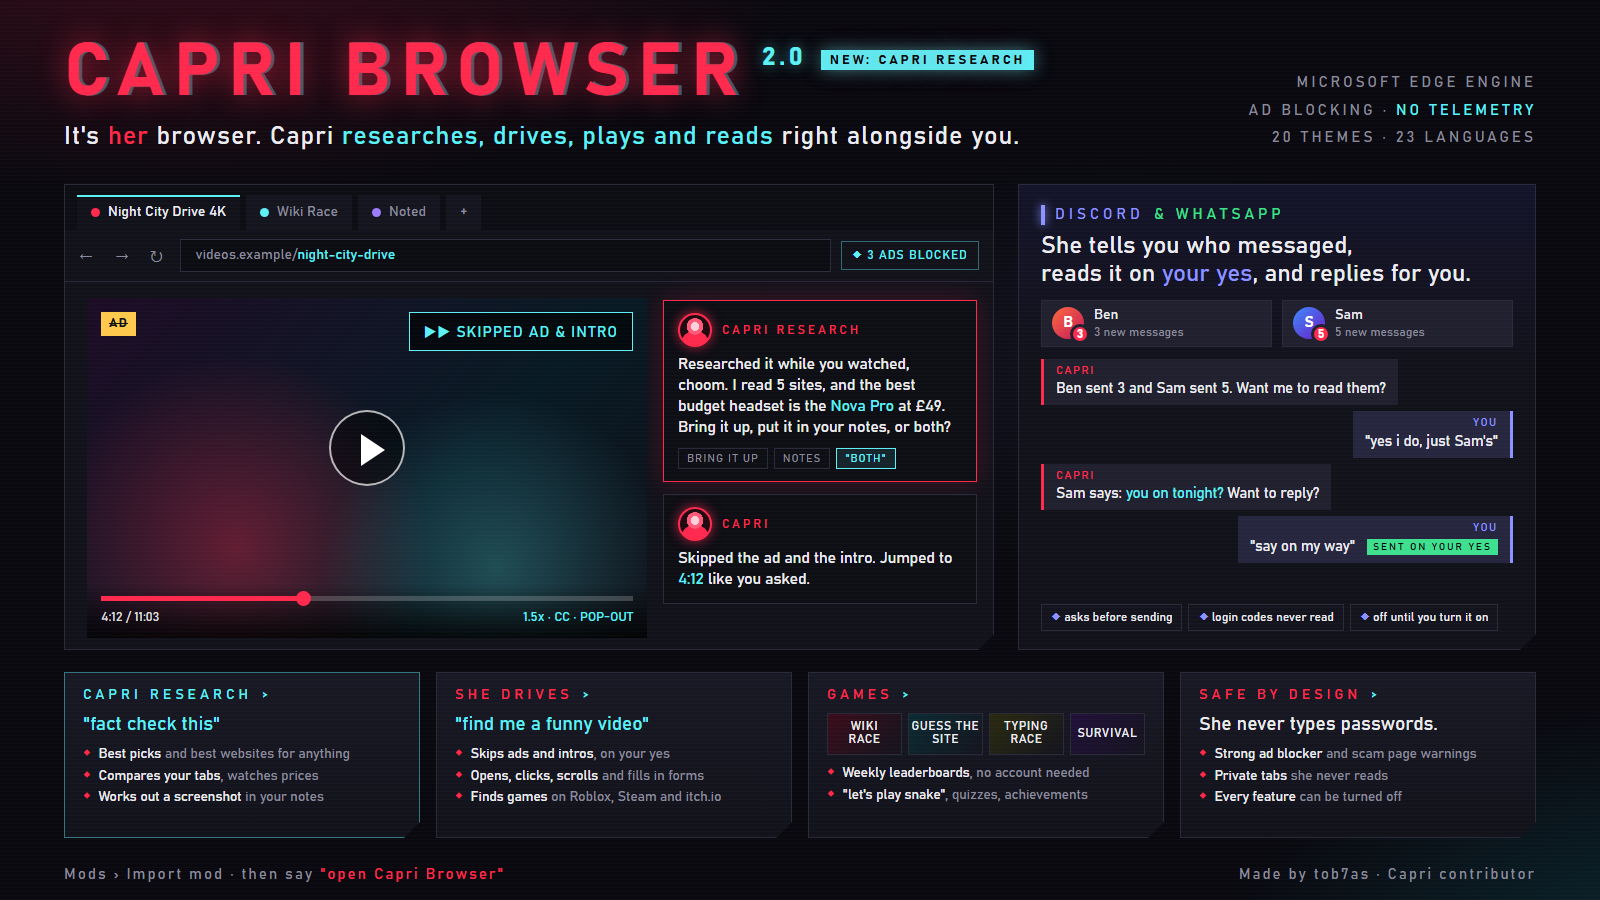
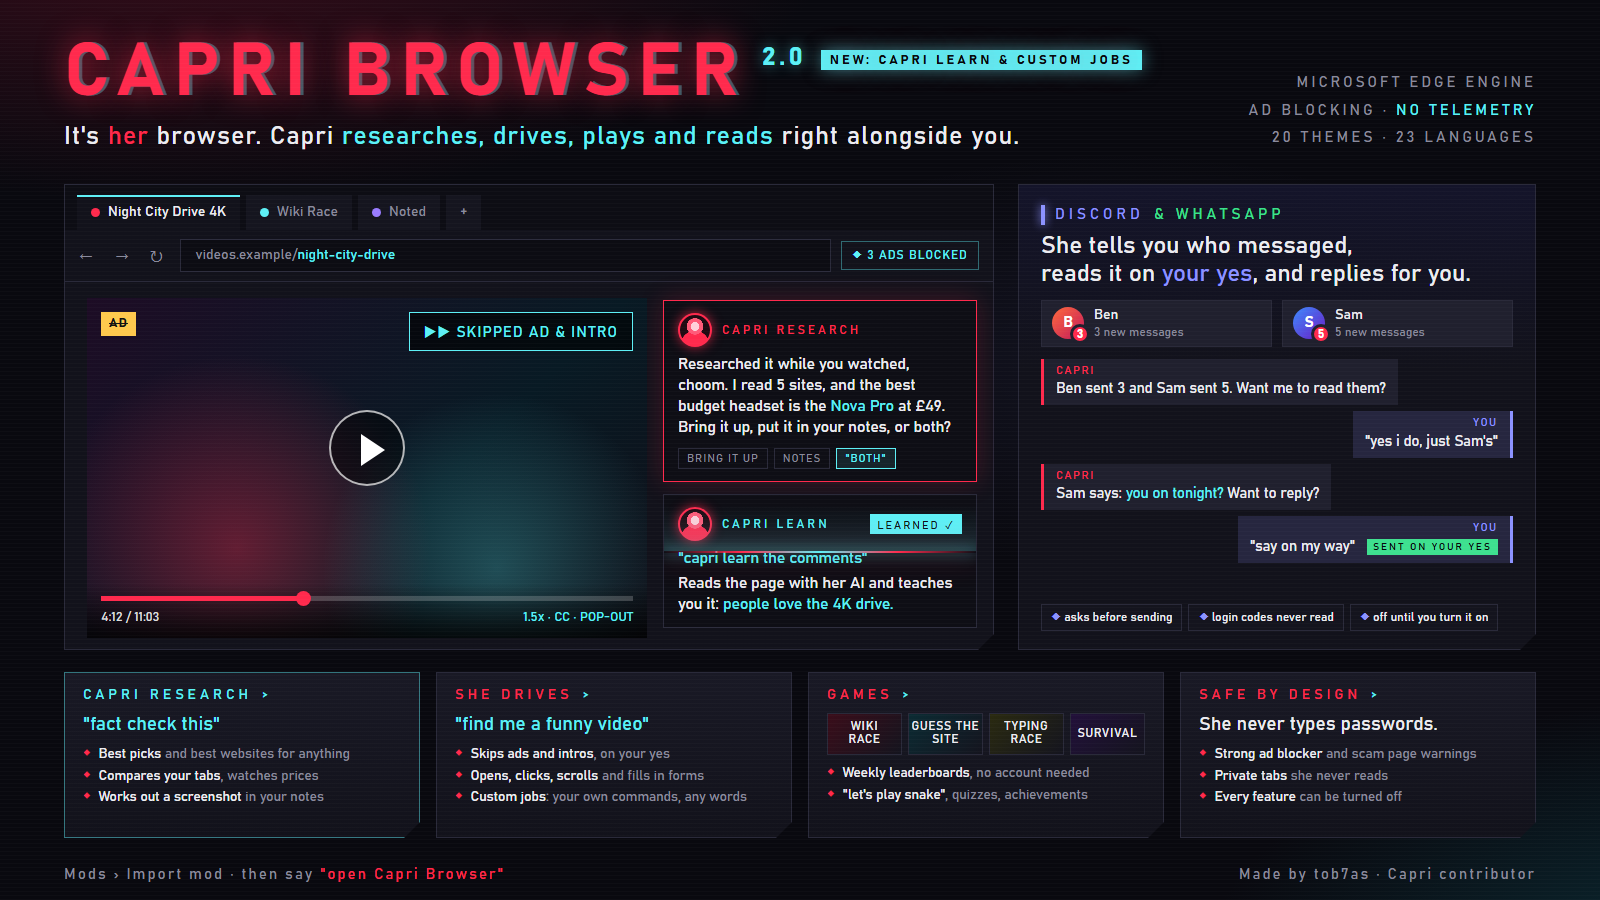
Capri Browser: custom jobs upgrade (any words, Capri learn, Capri Rewrite, ask/wait steps, jobs by voice, cooler page), preview image, README

Changed region(s): [[0.4062, 0.56, 0.625, 0.6844], [0.5938, 0.0311, 0.7188, 0.0933], [0.2812, 0.8711, 0.4688, 0.9022]]

diff --git a/mods/capri-internal-browser/README.md b/mods/capri-internal-browser/README.md
@@ -5,7 +5,7 @@ A full web browser built into Capri. Capri can see the page you're on and use it
 - Kind: code mod
 - Version: 2.0.0
 - Made by: tob7as
-- Needs: **Capri 0.9.4 or newer** on **Windows 10 or 11** (about 951 KB of readable code, under the 1 MiB code mod limit). It uses Microsoft Edge's WebView2 engine, which comes with both
+- Needs: **Capri 0.9.4 or newer** on **Windows 10 or 11** (about 970 KB of readable code, under the 1 MiB code mod limit). It uses Microsoft Edge's WebView2 engine, which comes with both
 - Windows only
 
 ## Say this
@@ -48,6 +48,9 @@ A full web browser built into Capri. Capri can see the page you're on and use it
 | "what's 20% of 85" / "what time is it in Tokyo" / "5 km in miles" | Answers straight away, no tab |
 | "open custom jobs" | Opens your Custom jobs |
 | Your own job's words, like "movie night" | Runs your Custom job |
+| "make a job called movie night: open youtube.com, full screen" | Makes a Custom job (she checks it with you first) |
+| "what jobs do I have?", "delete my movie night job" | Lists or deletes your jobs (deleting asks first) |
+| "Capri learn ___", like "Capri learn the comments" or "Capri learn this page" | She reads the page with her AI, learns it and teaches you what it says, while a scan line in her colours sweeps the page |
 | "pop the video out" | Puts the video in a small floating window |
 | "summarise this page" | Tells you what the page is about in a few lines |
 | "read this to me" | Reads the page out loud |
@@ -79,7 +82,13 @@ Most of these also work in Capri Browser's 22 other languages (Spanish, French, 
 
 ## Custom jobs
 
-Make your own commands from the sidebar's Custom jobs button (or say "open custom jobs"): **what you say** in quotes, an optional **link** to open first, and **steps** in plain words, one a line (play, full screen, volume 40, skip 2 minutes, click Shuffle, summarise, add it to School notes, wait 5...). Steps are only Capri Browser's own actions: a job can't run code, she never types passwords, and clicks or typing on messaging and social sites still wait for your yes.
+Make your own commands from the sidebar's Custom jobs button (or say "open custom jobs", or "make a job called movie night: open youtube.com, full screen"): **what you say** in quotes (a few ways with /, like "movie night / film time"), an optional **link** to open first, and **steps**, one a line, in whatever words you like. Any of her voice commands works as a step, and a step she doesn't know goes to her AI, which works out what you meant. A few to try:
+
+- **Capri learn ___**: she reads the page (or just the part you say, like "Capri learn the comments") with her AI and teaches you what it says. "check the comments" or "look at the prices" work too.
+- **ask Ready?**: the job waits for your yes ("no" stops it). **wait 2 minutes** or **wait for it to load** pause it, and Esc stops it any time.
+- **Capri Rewrite** (a button on each job): her AI learns what the job is for, fixes the spelling and rewords each step the way she knows works, then you check it and Save.
+
+If she still can't do a step she tells you which, and the job's card says so. Steps are only Capri Browser's own actions: a job can't run code, she never types passwords, and clicks or typing on messaging and social sites still wait for your yes. Rewrite and steps she doesn't know send only the job's words to her brain, and Capri learn sends the page text, like "summarise" does.
 
 ## Also in it
 
